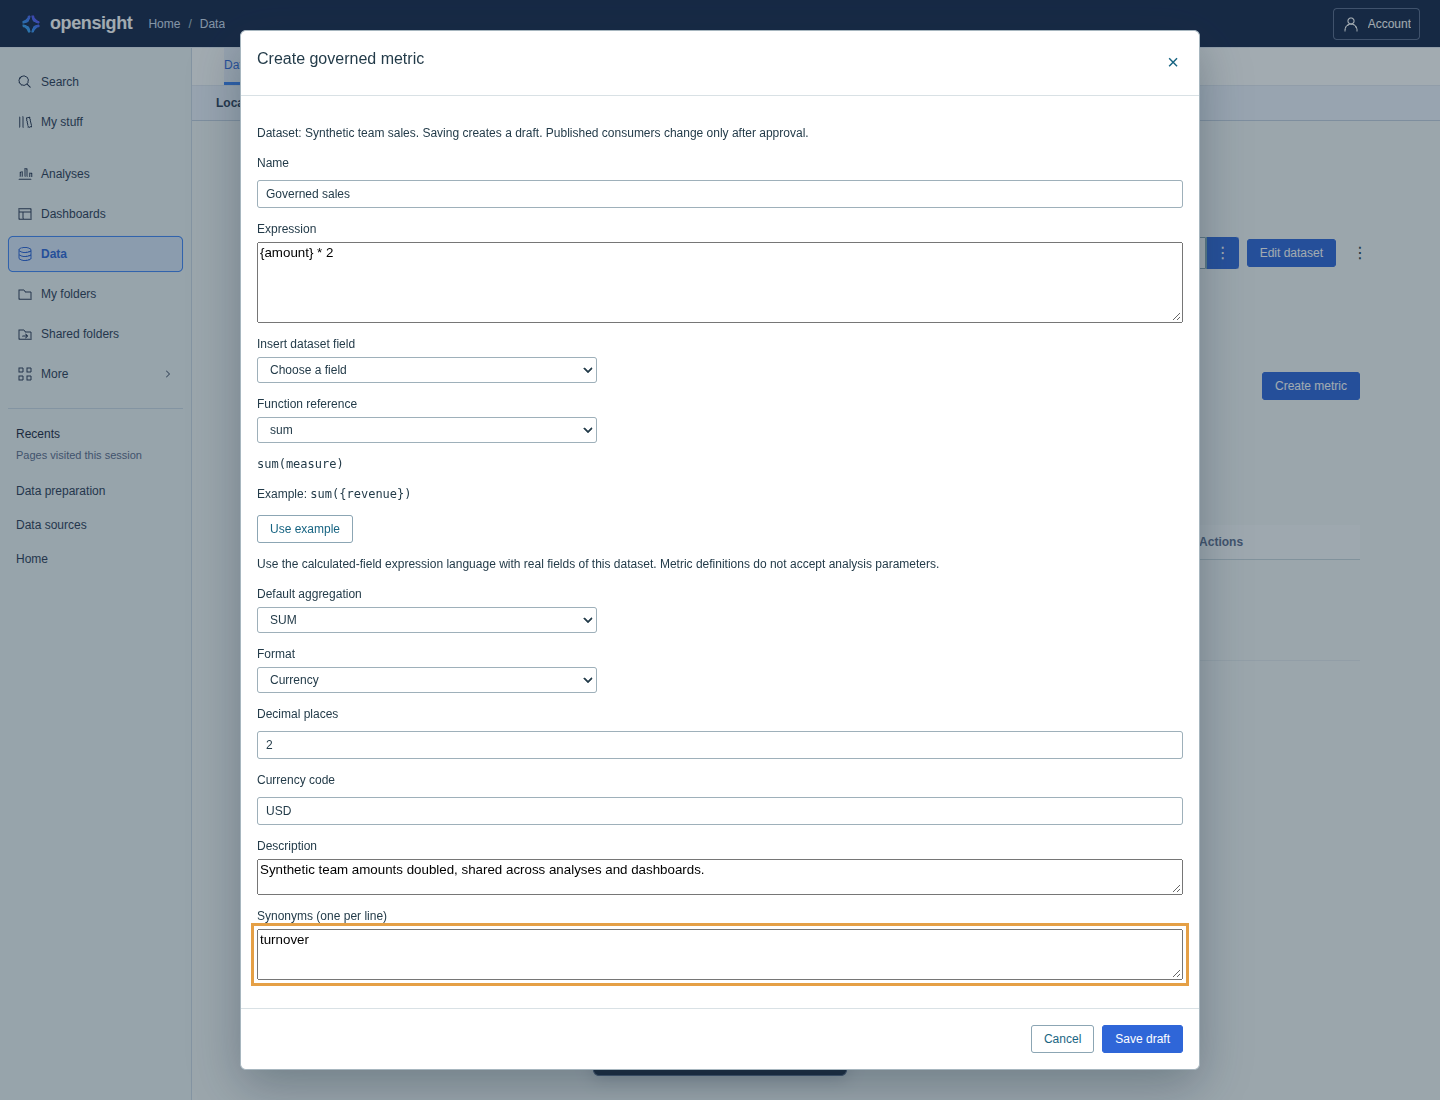
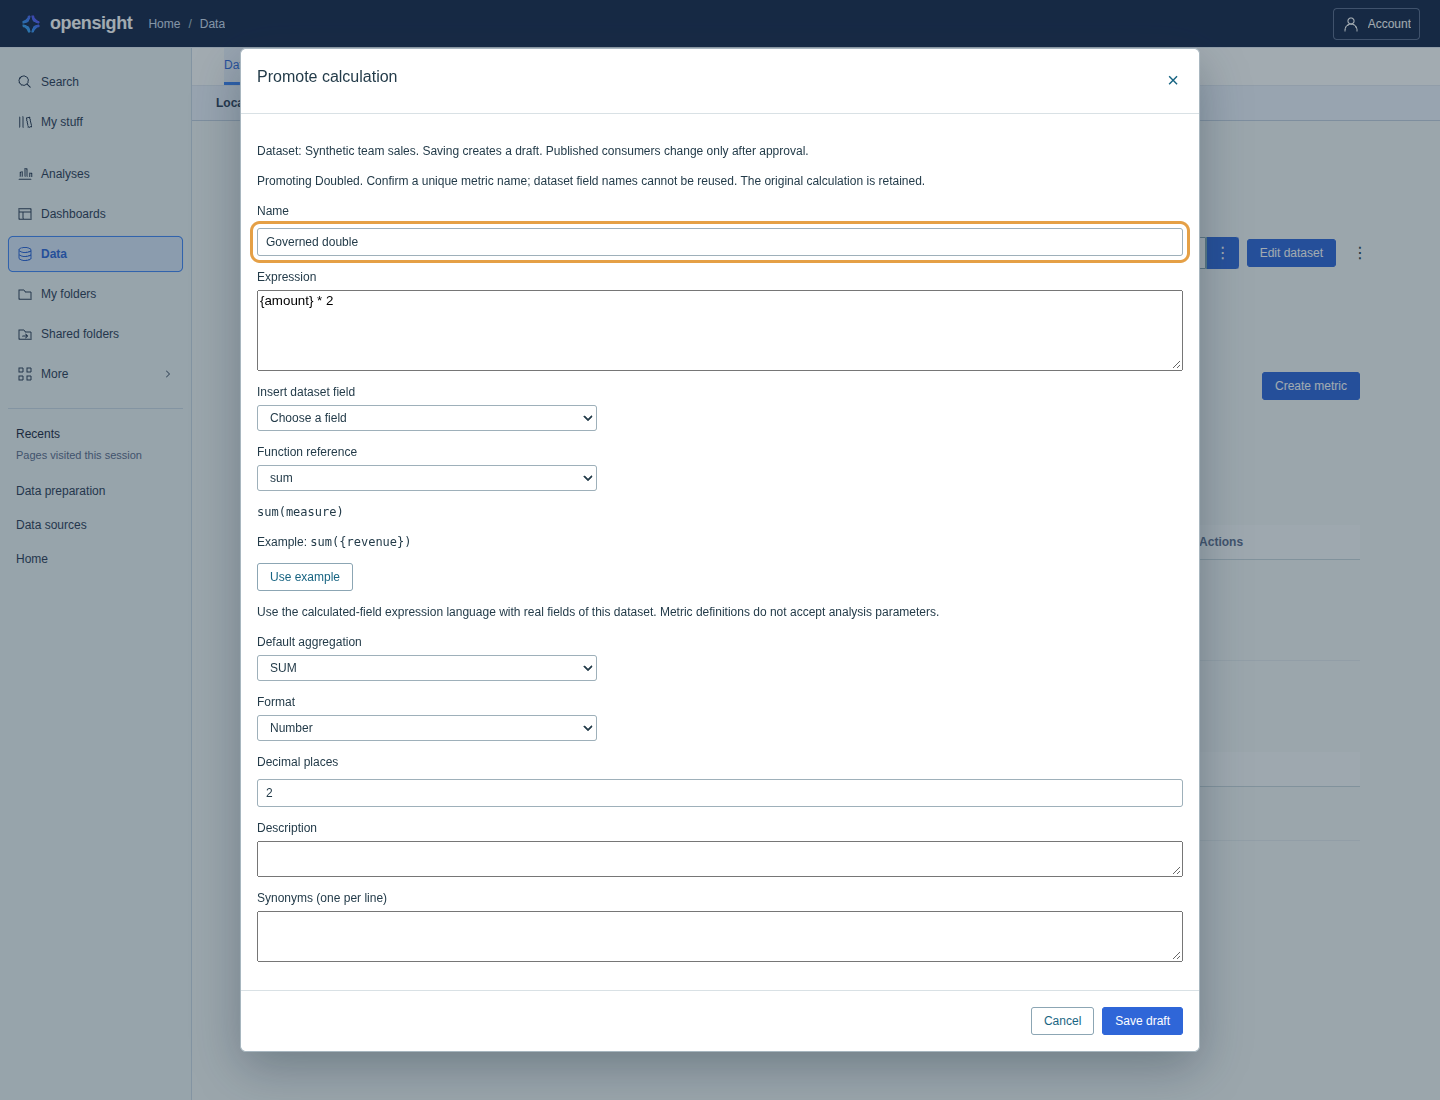
Issue 160 item 5: verify promotion paths and refresh README visuals

Changed region(s): [[0.1562, 0.3091, 0.8438, 0.9891], [0.1562, 0.0, 0.8438, 0.2782], [0.3125, 0.5564, 0.3438, 0.5873]]

diff --git a/packages/api/src/metric-model.ts b/packages/api/src/metric-model.ts
@@ -79,8 +79,13 @@ export class MetricCatalog {
     const calc = this.calculations(ref).find(c => c.id === calculationId) ?? assetFail('METRIC_CALCULATION_NOT_FOUND', 404);
     // COUNT validates every scalar type without guessing currency or percentage semantics.
     const base: MetricDefinition = { name: calc.name, expression: calc.expression, defaultAggregation: 'COUNT', format: { style: 'number', decimalPlaces: 2 }, description: '', synonyms: [] };
-    metricDefinition(base, { columns: schema.columns.filter(c => c.name.toLowerCase() !== calc.name.toLowerCase()) });
-    try { metricDefinition({ ...base, defaultAggregation: 'SUM' }, { columns: schema.columns.filter(c => c.name.toLowerCase() !== calc.name.toLowerCase()) }); base.defaultAggregation = 'SUM'; }
+    const sourceSchema = { columns: schema.columns.filter(c => c.name.toLowerCase() !== calc.name.toLowerCase()) };
+    // Validate the source expression independently of its old name. Dataset names
+    // may contain characters a governed name forbids; the promoter can rename it.
+    let validationName = '__promotion_0';
+    for (let n = 1; sourceSchema.columns.some(c => c.name.toLowerCase() === validationName); n++) validationName = `__promotion_${n}`;
+    metricDefinition({ ...base, name: validationName }, sourceSchema);
+    try { metricDefinition({ ...base, name: validationName, defaultAggregation: 'SUM' }, sourceSchema); base.defaultAggregation = 'SUM'; }
     catch (e) { if (!(e && typeof e === 'object' && 'code' in e && e.code === 'METRIC_TYPE_MISMATCH')) throw e; }
     return base;
   }

diff --git a/packages/api/src/metric-routes.ts b/packages/api/src/metric-routes.ts
@@ -43,7 +43,7 @@ export class MetricRoutes {
     const scoped = /^\/api\/v1\/datasets\/([A-Za-z0-9_-]{1,512})\/metrics$/.exec(path);
     const match = /^\/api\/v1\/metrics(?:\/([A-Za-z0-9_-]{1,512})(?:\/(publish|versions|export))?)?$/.exec(path);
     if (!scoped && !match) assetFail('RESOURCE_NOT_FOUND', 404);
-    const promotion = path === '/api/v1/metrics/promote-calc';
+    const promotion = path === '/api/v1/metrics/promote-calc' && request.method === 'POST';
     const id = promotion ? undefined : match?.[1], action = match?.[2], list = !!scoped || !id;
     const verb = method(request, response, scoped || action === 'versions' || action === 'export' ? ['GET'] : promotion ? ['POST'] : list ? ['GET', 'POST'] : action === 'publish' ? ['POST'] : ['GET', 'PUT']);
     const read = verb === 'GET', raw = read ? {} : object(await readBody(request), action === 'publish' ? [] : promotion ? ['id', 'dataset', 'calculationId', 'definition'] : list ? ['id', 'dataset', 'definition'] : ['definition']);

diff --git a/packages/web/src/PrepPromotions.tsx b/packages/web/src/PrepPromotions.tsx
@@ -40,7 +40,7 @@ export function PrepPromotions({ client, dataset, sources, propose, onCreated, o
   }, [client, available, revision]);
   const action = async (work: () => Promise<void>) => { if (acting.current) return; acting.current = true; setBusy(true); setError(''); try { await work(); } catch (e) { setError(prepMessage(e)); } finally { acting.current = false; setBusy(false); } };
   return <DataDialog title={proposing ? 'Promote recipe to template' : 'Shared recipe templates'} onClose={() => { if (!busy) onClose(); }}>
-    <div className="data-dialog-body">
+    <div className="data-dialog-body prep-promotions">
       {!available ? <p>Needs a local or hosted API. Recipe templates are shared workspace assets; this static demo has no template store.</p> : <>
         <p>Editors propose drafts. The recipe owner or a workspace administrator publishes them for shared use.</p>
         {error && <p role="alert">{error}</p>}{message && <p role="status">{message}</p>}

diff --git a/packages/web/src/data-section.css b/packages/web/src/data-section.css
@@ -290,3 +290,10 @@ details[open] .data-menu-items { animation: menu-open 150ms ease-out; }
 
 .governed-metrics .data-table th:first-child { width: 40%; }
 .governed-metrics .data-table td:nth-child(2) { min-width: 9em; overflow-wrap: normal; }
+/* Promotion review keeps actions readable; narrow screens scroll the catalog. */
+.governed-metrics [aria-label="Dataset calculations"] .data-table { min-width: 480px; }
+.prep-promotions .data-table { min-width: 620px; }
+.prep-promotions td small { display: block; margin-top: 4px; color: var(--muted); }
+.prep-promotions td button { margin: 4px; white-space: nowrap; }
+.prep-promotions pre { white-space: pre-wrap; overflow-wrap: anywhere; }
+.prep-promotions label { display: grid; gap: 4px; margin: 12px 0; }

diff --git a/packages/api/src/v1-route-contract.ts b/packages/api/src/v1-route-contract.ts
@@ -1,7 +1,7 @@
 /** The tested hosted-UI slice only; identifiers are literal and never URL-decoded. */
 export function serverlessV1Methods(path: string): readonly string[] | undefined {
   const id = '[A-Za-z0-9_-]{1,512}';
-  if (path === '/api/v1/metrics/promote-calc') return ['POST'];
+  if (path === '/api/v1/metrics/promote-calc') return ['GET', 'PUT', 'POST'];
   if (path === '/api/v1/prep-templates') return ['GET', 'POST'];
   if (new RegExp(`^/api/v1/prep-templates/${id}$`).test(path)) return ['GET', 'PUT'];
   if (new RegExp(`^/api/v1/prep-templates/${id}/(?:publish|datasets)$`).test(path)) return ['POST'];

diff --git a/ops/serverless/edge-viewer.js b/ops/serverless/edge-viewer.js
@@ -3,7 +3,7 @@ function serverlessV1Methods(path) {
 if (path.indexOf('/api/v1/') !== 0)
 return undefined;
 if (path === '/api/v1/metrics/promote-calc')
-return ['POST'];
+return ['GET', 'PUT', 'POST'];
 if (path === '/api/v1/prep-templates')
 return ['GET', 'POST'];
 if (/^\/api\/v1\/prep-templates\/[A-Za-z0-9_-]{1,512}$/.test(path))

diff --git a/ops/serverless/modules/edge/edge-viewer.js b/ops/serverless/modules/edge/edge-viewer.js
@@ -3,7 +3,7 @@ function serverlessV1Methods(path) {
 if (path.indexOf('/api/v1/') !== 0)
 return undefined;
 if (path === '/api/v1/metrics/promote-calc')
-return ['POST'];
+return ['GET', 'PUT', 'POST'];
 if (path === '/api/v1/prep-templates')
 return ['GET', 'POST'];
 if (/^\/api\/v1\/prep-templates\/[A-Za-z0-9_-]{1,512}$/.test(path))

diff --git a/docs/issue-160-gap-notes.md b/docs/issue-160-gap-notes.md
@@ -1,0 +1,95 @@
+# Issue #160 verification and visual comparison
+
+The build follows the supplied #160 brief and the settled #157 decisions: opt-in
+promotion, unchanged source calculations, same-dataset governed metrics, and one
+draft → published approval pattern. No solution-design changes, new dependency,
+AWS operation or remote publication is part of this slice.
+
+## API and permission checks
+
+Calculation promotion uses the existing metric model/routes and expression
+validator. Tests exercise local and hosted creation, explicit name conflicts,
+editor proposals, reader denial, owner publication, retained source pipelines,
+immutable provenance/audit, idempotent retries and restart persistence. Legacy
+CreateColumns calculations are covered, including COUNT defaults for strings,
+case-insensitive conflicts, explicit renaming of incompatible source names,
+analysis parameter rejection and attempts to replace
+an invalid source expression with a valid submitted expression. A routing
+regression check preserves read/edit access to a metric whose ID happens to be
+`promote-calc`.
+
+Template checks cover local and hosted propose/publish/edit histories, pending
+visibility, reader and foreign-owner bypass attempts, secondary input slots,
+branches/output selection, missing/foreign/incompatible bindings, immutable copies,
+create-only behavior and restart persistence. Existing metadata migration and
+edge-contract tests cover the widened asset kind and generated ingress grammar.
+The final focused API run reports **13 passed / 0 failed / 0 skipped**.
+
+Web tests exercise both promotion entry points, reuse of the metric form, default
+values, server conflicts, owner review/publication, required input binding,
+failed-creation retention and explicit offline requirements. The root suite
+includes these test files through the existing workspace scripts. The full root
+suite runs with `TZ=UTC`, the configured local Postgres, and
+`OPENSIGHT_CHROMIUM` pointing to the policy-configured temporary launcher. An
+initial invocation without that browser setting could not start Chromium; the
+corrected browser check passed all eight tests before restarting the full run.
+The final root run passed **4,491 / 0 failed / 1 skipped**: 4,459 Node tests
+plus 32 Python tests passed. The only skip is the separately configured live TLS
+Postgres integration test; regular live Postgres tests ran. The command exited
+zero. The complete log is `/tmp/issue160-full-final.log`.
+
+## Browser acceptance
+
+`packages/web/scripts/verify-promotions.mjs` drives Chromium, Vite and a real local
+API using a disposable workspace and synthetic team/amount CSV. It adds and saves
+a calculated prep column, opens its prefilled metric promotion form, confirms a
+new name, saves a draft and publishes it. It then proposes a recipe template,
+opens its step review, publishes it, binds the caller's uploaded input, and creates
+an independently editable prepared dataset. Finally it opens the rebuilt static
+demo and verifies that templates explicitly require an API and expose no fake
+creation action. There are **zero page errors and zero external requests**.
+
+Desktop captures use 1440px width and mobile captures use 390px. Assertions check
+for document horizontal overflow. A new calculation action initially wrapped into
+single characters on mobile; the calculation catalog now scrolls inside its
+container, preserving readable actions. Template review uses the same bounded
+horizontal catalog and vertically scrolling dialog. The existing prefilled
+textarea/select label text requires prefix locators in the browser script; no
+product behavior is substituted or mocked.
+
+## Reference comparison and README media
+
+Compared the rebuilt prep surface with the prior README prep image and the local
+QuickSight `qs-2026/qs-data-prep-new.jpg` reference. The left transformation catalog,
+dominant graph, bottom configuration/preview area and docked controls remain.
+Promotion and shared-template actions sit in the document bar. The current brand
+tokens remain in use. The metric promotion form reuses the existing definition
+form; template review reuses the standard data dialog and table. No supplied
+QuickSight promotion form reference exists, so no feature-specific visual parity
+is claimed. Existing density, branding and chrome differences remain; visual
+fidelity is unmeasured.
+
+README media includes the refreshed prep screenshot, the calculation promotion
+form, a new template approval screenshot and the refreshed hero tour. Data prep
+appears in the existing tour, so the maintained `capture-readme-tour.mjs`
+adaptation of `~/workspace/tools/screenshots/readme-gif.mjs` was rerun. Its 253
+frames use the documented ffmpeg palette workflow at 960×600 and 10fps. The tour
+reported zero browser errors. Capture uses the unchanged image-owned Chromium
+WebGL policy through a temporary launcher; no machine policy is edited or checked
+in. The static demo remains a local rendering preview, not a deployed server.
+
+No unresolved issue-specific visual defect remains, so no new remote issue was
+filed. Captures and logs are under `/tmp/issue160-*`.
+
+## Conservative boundaries
+
+- Only saved dataset calculations are promoted. Analysis-local calculations keep
+  their current semantics and have no promotion action.
+- Source calc expressions must bind to the dataset's final schema. Removed or
+  renamed intermediate fields are not inlined or silently substituted.
+- Template proposals come from the editor's own saved recipe. The recipe owner
+  remains the template owner, with administrators also able to publish.
+- Template definition editing is available through the API. The UI covers
+  propose, inspect, approve and reuse; it does not add a second pipeline editor.
+- Template inputs must be explicitly bound, using existing prep step restrictions.
+  Template edits never change datasets previously created from them.

diff --git a/README.md b/README.md
@@ -231,9 +231,18 @@ and Ask O use the latest published expression, aggregation and format. Open a
 dataset's **Metrics** tab to define a metric or inspect its history. See
 [governed metrics](docs/governed-metrics.md) for permissions and join safety.
 
-![Governed metric definition form using a real local API and synthetic team sales](docs/images/governed-metric-form.png)
+Saved dataset calculations can be **promoted** into that same draft form. The
+original calculation remains unchanged, and provenance records its source.
+
+![Calculation promotion into the governed metric form using a real local API and synthetic team sales](docs/images/governed-metric-form.png)
 
 ![Data preparation canvas with hosted preview requirements](docs/images/data-prep.png)
+
+Saved prep recipes can be proposed as **shared templates**. Owners/admins review
+and publish them; editors start new datasets by binding their own inputs. The
+steps are copied and stay independently editable. See [recipe templates](docs/data-prep.md#shared-recipe-templates-160).
+
+![Recipe template awaiting owner approval, captured with a local API and synthetic data](docs/images/recipe-template-review.png)
 
 The serverless adapter supports **8 MiB direct file uploads** with an explicit
 expiry and durable ingestion status. Status checks stop on hidden pages and after
